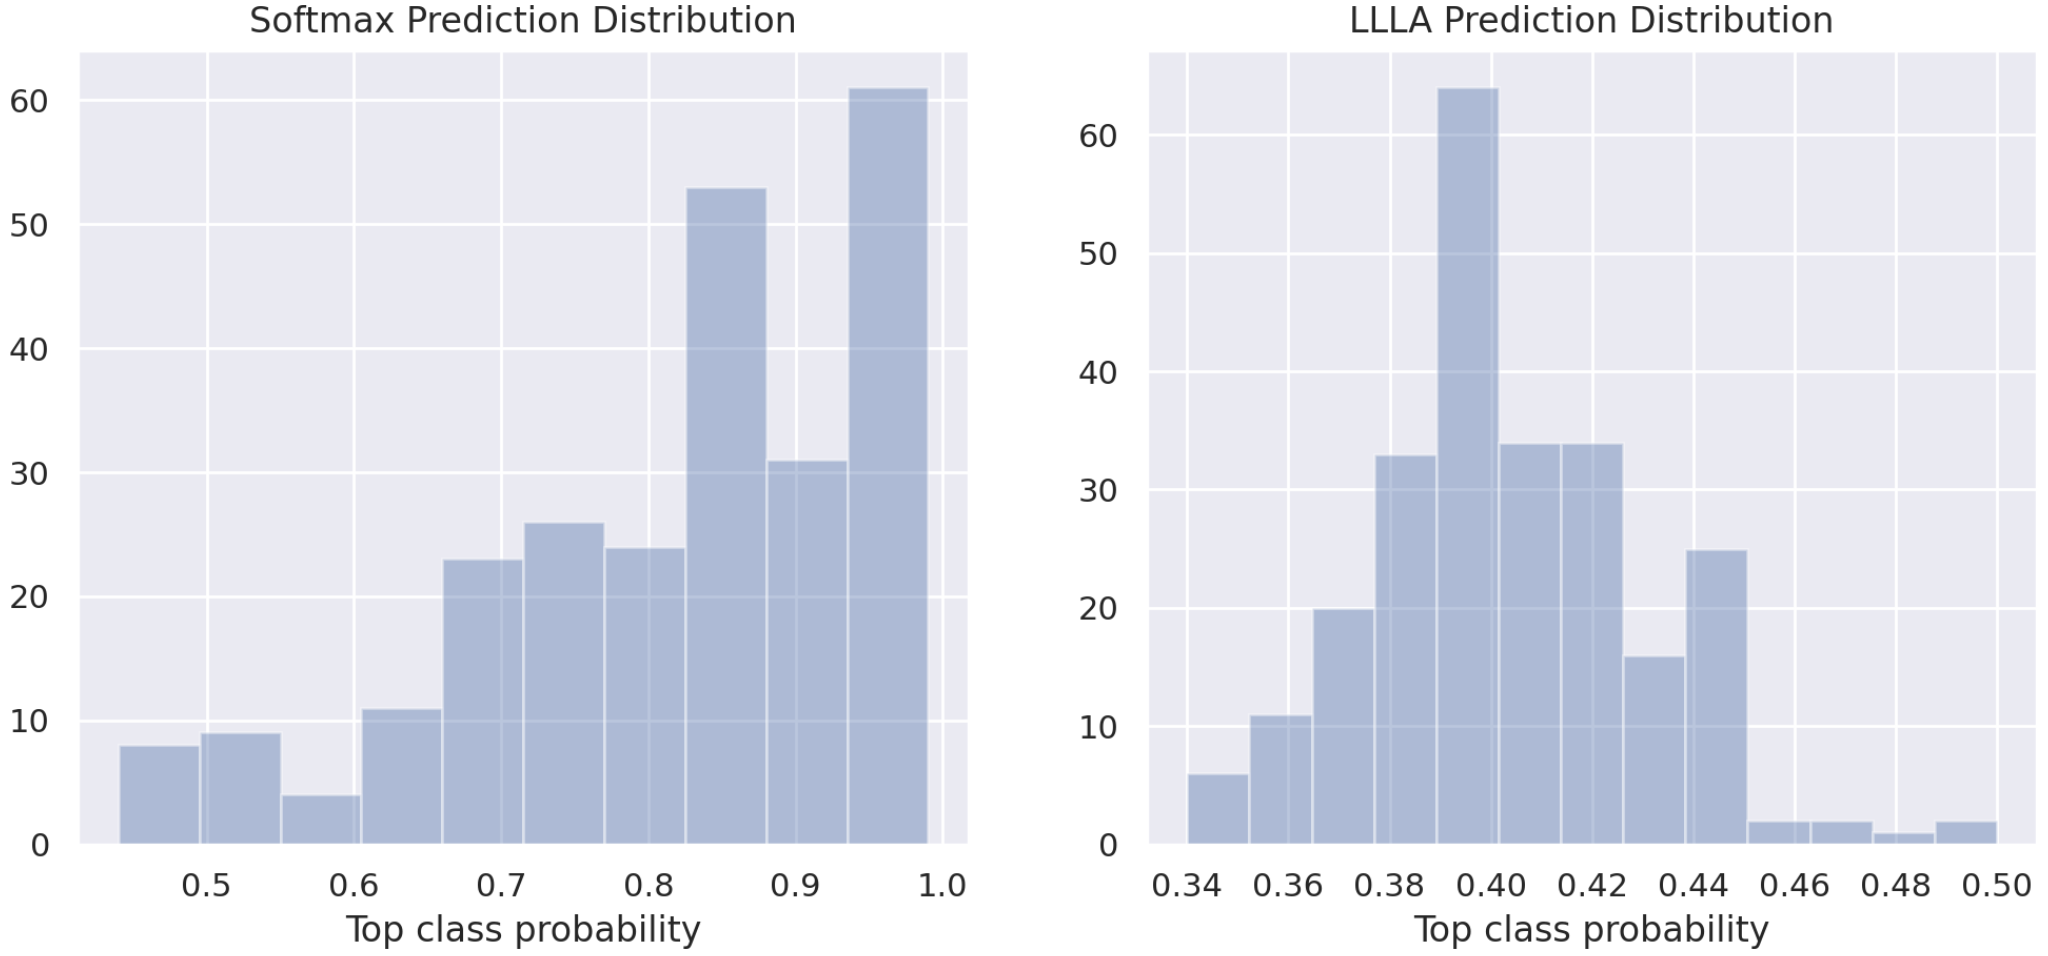
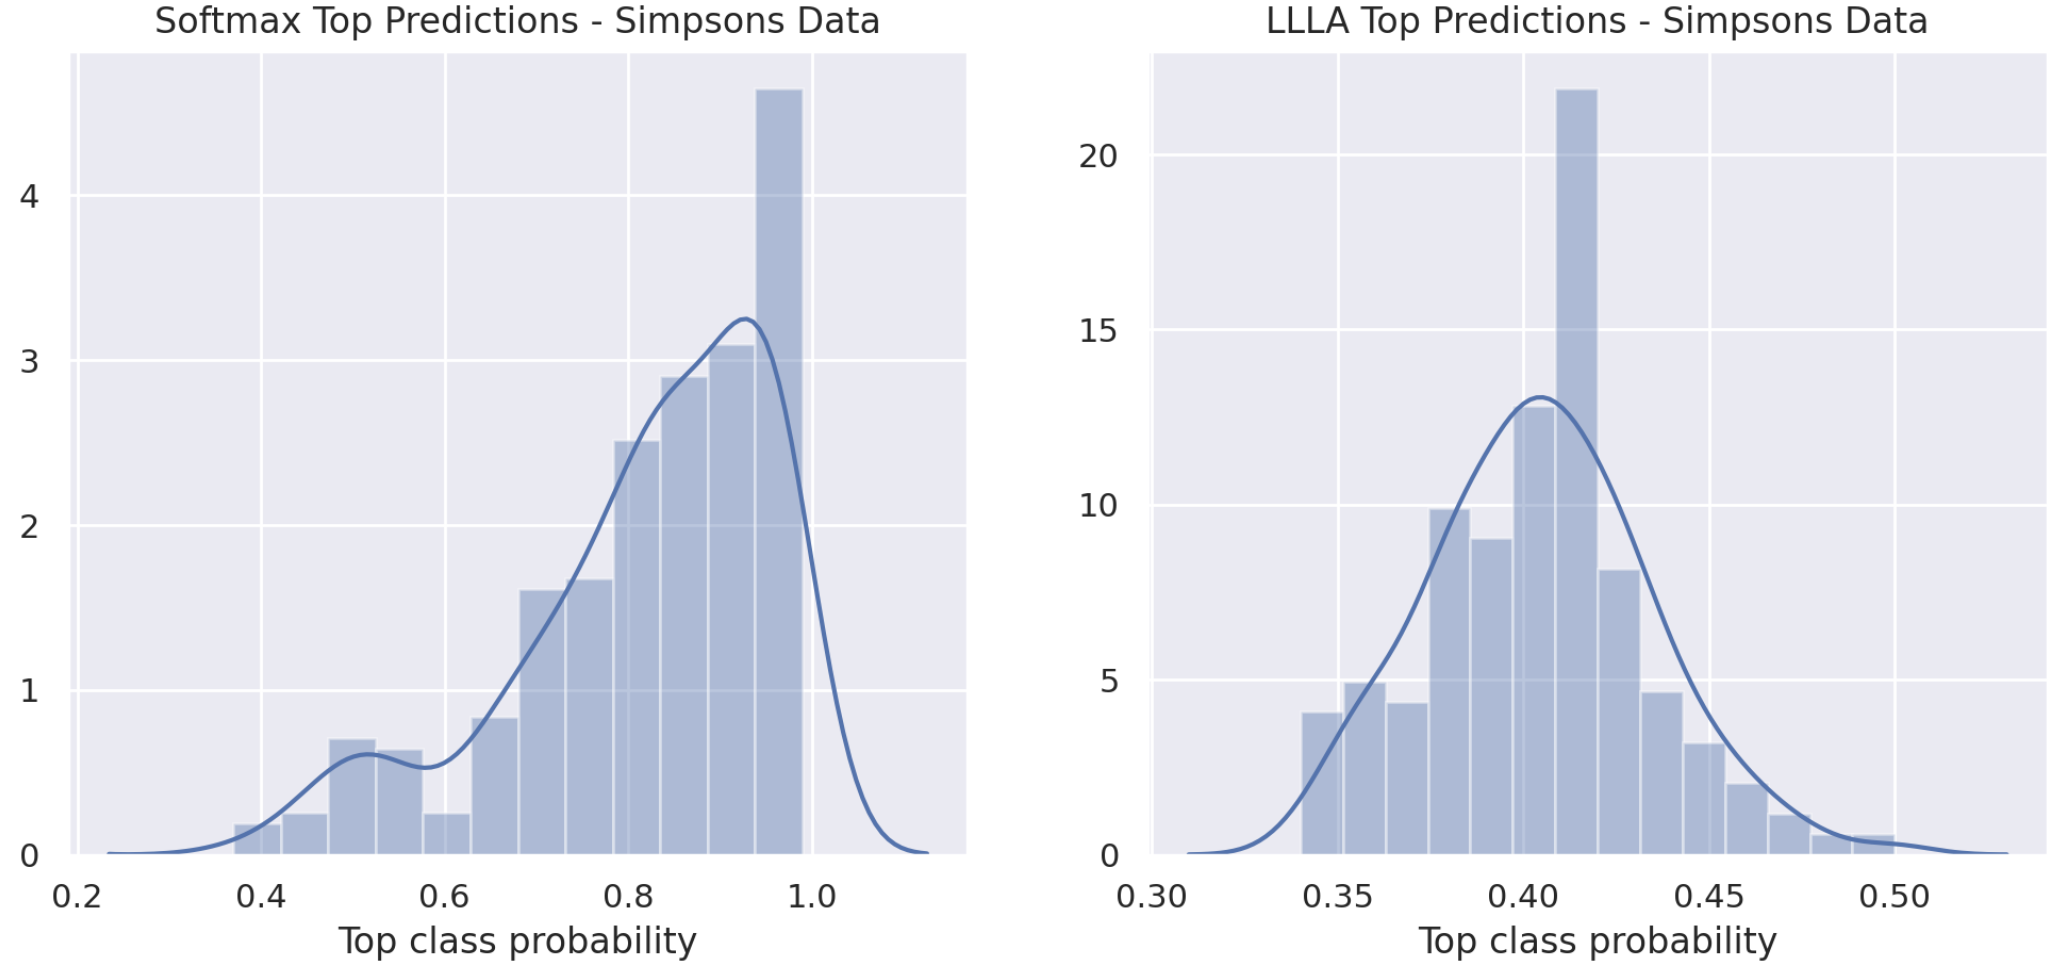
updated writeup

diff --git a/_posts/2020-07-15-overconfident-nn.md b/_posts/2020-07-15-overconfident-nn.md
@@ -103,7 +103,7 @@ Last thing - what's the top prediction confidence distribution for images that a
 </p>
 &nbsp;
 
-I parsed 300 images of Simpsons character faces into the classifier and plotted the confidence level of the top class for both LLLA and the softmax models. Again, we'd expect this distribution to be closer to 0.33 (random chance).
+I parsed 300 of these Simpsons character faces into the classifier and plotted the confidence level of the top class for both LLLA and softmax models. Again, since these are garbage images, we'd expect this distribution to be closer to 0.33 (random chance).
 
 &nbsp;
 
@@ -113,7 +113,15 @@ I parsed 300 images of Simpsons character faces into the classifier and plotted 
 
 &nbsp;
 
-This is a lot better than just using softmax. Of course its usage will depend on the problem and allowable tradeoff between precision and recall for each class, however these results are promising.
+These results are pretty alarming for the softmax classifier, it almost empirically validates the proof of asymptotic confidence of ReLU networks mentioned ealier in the post. The majority of Simpson faces are predicted as cat/dog/wild with probability greater than 0.8 with the softmax classifier, whereas there are no predictions with greater than 0.5 confidence from the LLLA classifier. This is amazing!  
+
+&nbsp;
+
+### Conclusion
+
+From the light experimentation done here, the last layer Laplace approximation seems to be a good solution to the overconfidence problem. Of course its usage will depend on the problem and allowable tradeoff between precision and recall for each class, however these results are promising none the less. The icing on the LLLA cake is its ease of implementation.
+  
+All the code used in this blog can be found [here](https://www.kaggle.com/jramkiss/overconfident-neural-networks/).
 
 
 
